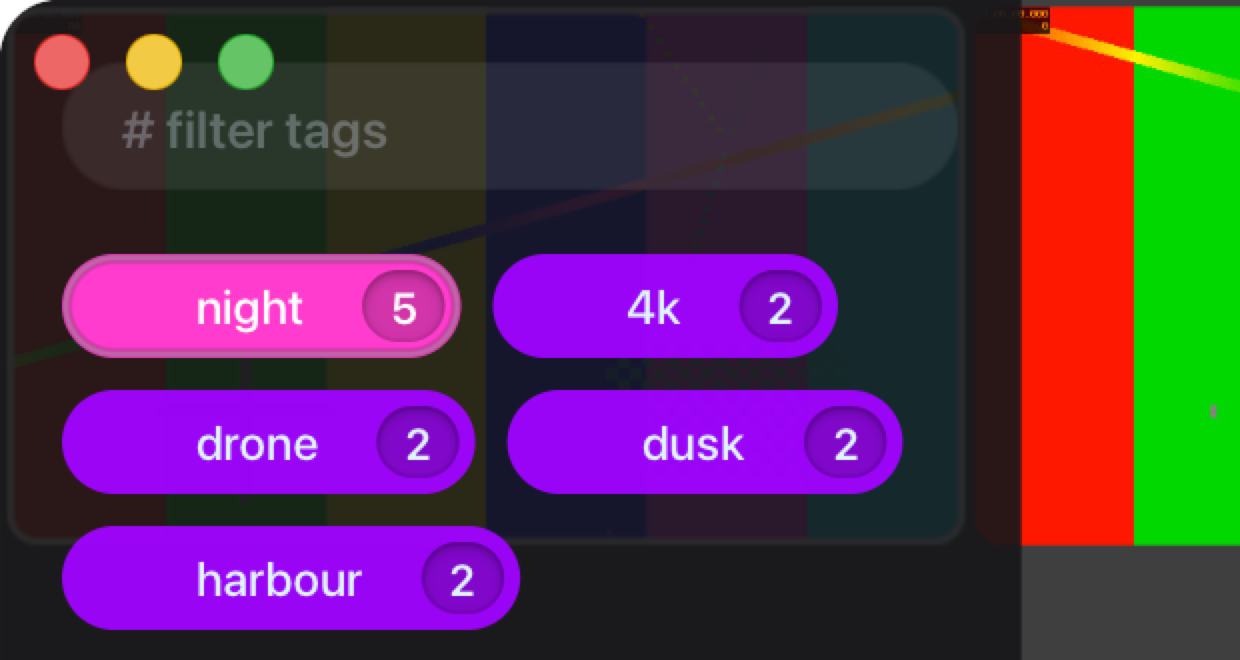
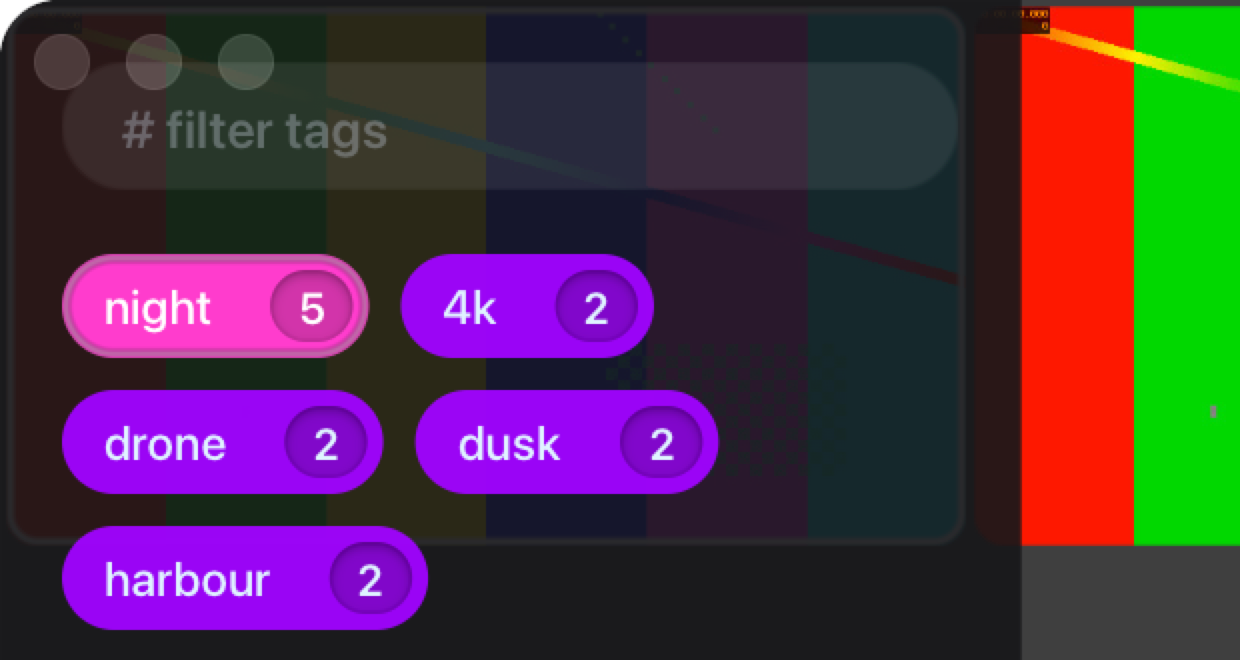
Note the tag chip width fix and the addable form seen running
Claude-Session: baf227fc-4d71-43ce-9bdd-2221e5e99b8b

diff --git a/TASKS.md b/TASKS.md
@@ -256,8 +256,20 @@ on both; app time under 0.1 ms on both). A temporary probe put figleaf's
 `prepare` at 6 to 12 microseconds a frame for ten shapes, 44 at worst, and
 zero bytes uploaded on every frame where the chips did not change.
 
-Left there: shapes in its blurred backdrop pass, the add well seen running (it
-shows only with ⌘ held), and a reference timing run (AC power, window in
+Chip widths were wrong until 2026-11-12: Switchblade kept room for the add
+well in every count chip, from a hidden layer the Figma component used to
+carry. On branch `tag-pill-widths` (worktree `../switchblade-pills`, not
+merged) a chip at rest is the Count form and only takes the Addable form,
+20 wider, while ⌘ is held
+([docs/switchblade-addable-in-app.png](docs/switchblade-addable-in-app.png)).
+Switchblade estimates label widths instead of measuring them, so its chips
+match Figma's widths to about a pixel or two, not exactly.
+
+The component's "Person / Count" variant now holds a bare add icon and is 92
+wide in Figma; the example still draws it without one, 76 wide, until the
+owner says which is meant.
+
+Left there: shapes in its blurred backdrop pass and a reference timing run (AC power, window in
 front, a real library), which was not done before the merge.
 
 Not checked beside Figma: the labels and counts of the review frame (other
